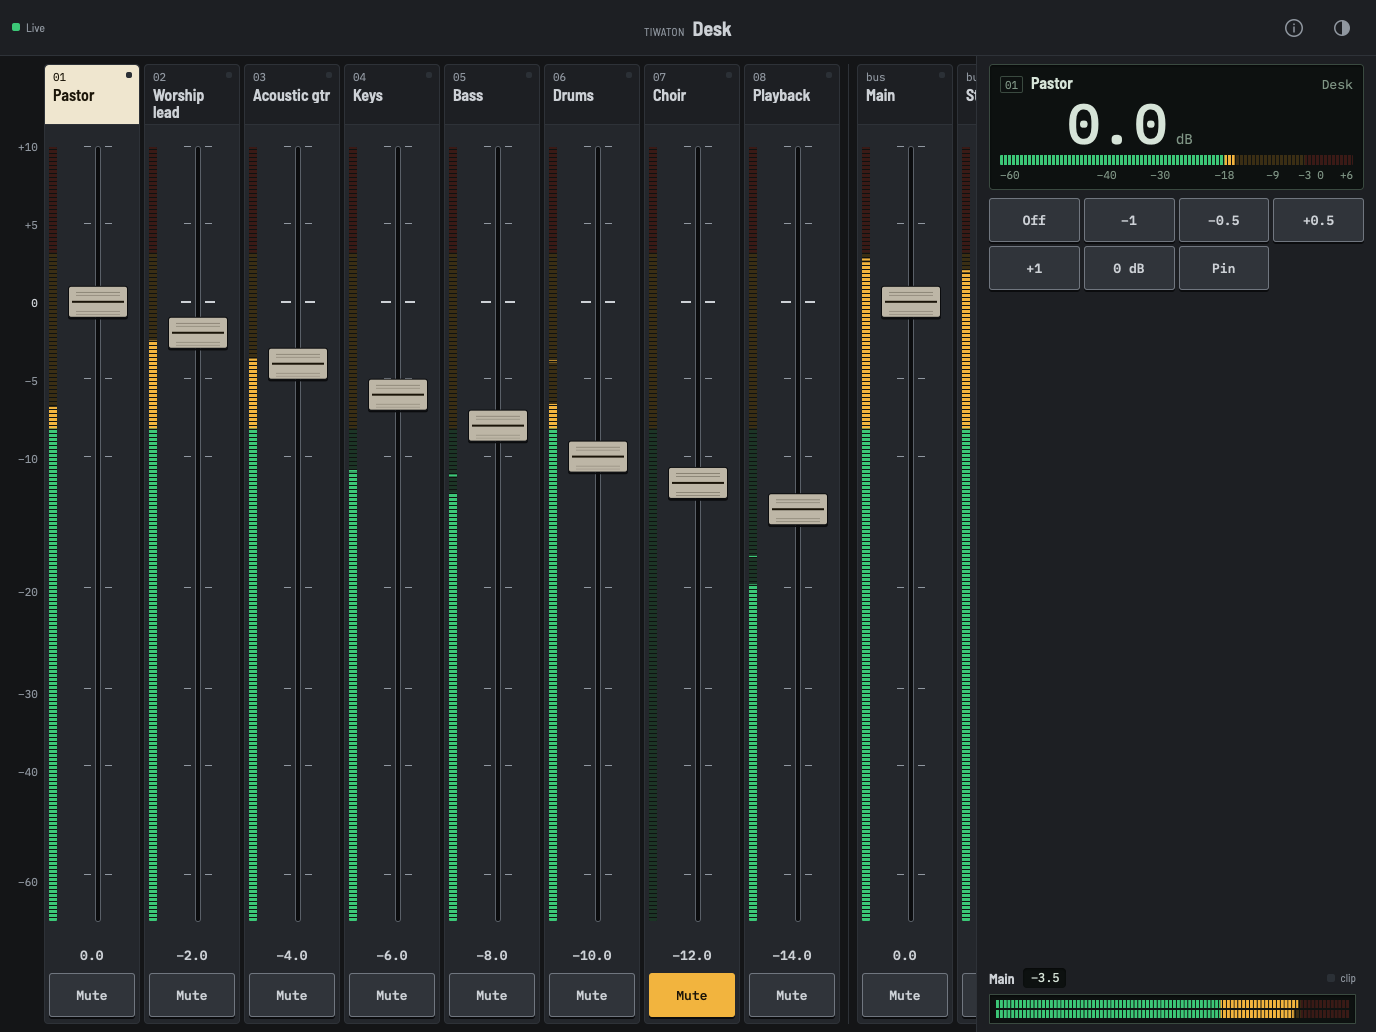
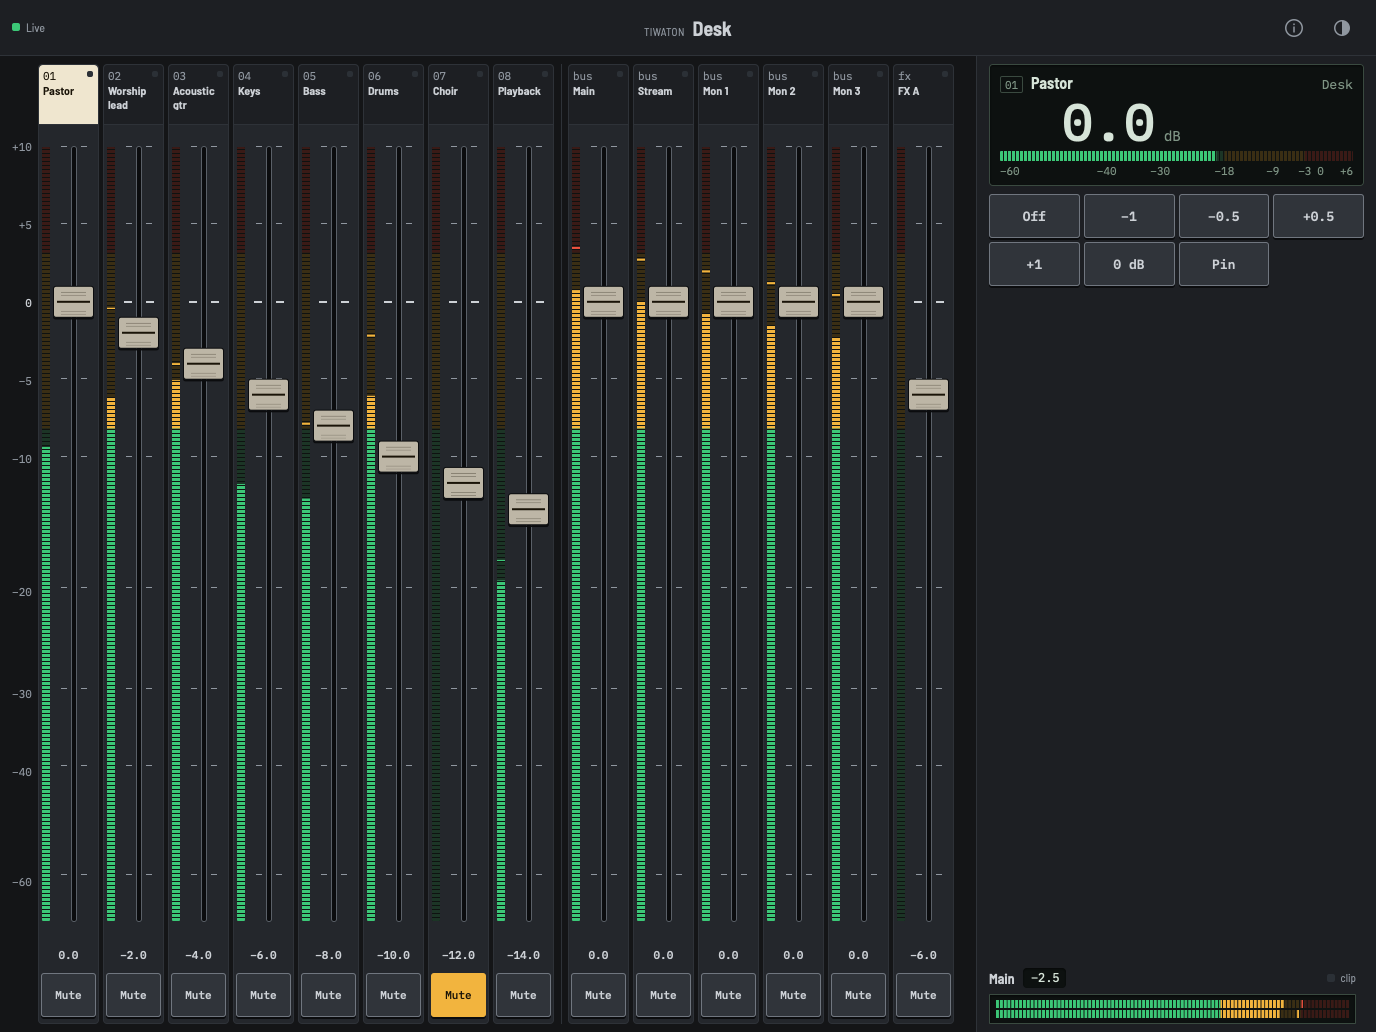
feat: fit every channel on screen on the phone and tablet
Strips now size to the screen: each takes the widest width that lets
all channels fit (8 on a phone in portrait, 14 desk faders on a
tablet), never under a 44 px touch target, scrolling only past that.
The meter sits inside the fader's touch area so the whole strip is
draggable; names hyphenate on narrow strips; the fine-adjust keys
start open in landscape. The preview server takes a host so a phone
on the tailnet can load it.

diff --git a/src-tauri/src/remote_mixer/web/desk.css b/src-tauri/src/remote_mixer/web/desk.css
@@ -9,13 +9,15 @@
 :root {
   --rm-touch: 44px;
   --rm-bar: 52px;
-  --rm-strip: 76px;
-  --rm-cap-w: 44px;
+  --rm-strip-max: 76px;
+  --rm-cap-max: 44px;
+  --rm-meter: 6px;
+  --rm-gap: 3px;
   --rm-cap-h: 28px;
   --rm-scrib: 56px;
-  --rm-scale: calc(28px + max(12px, env(safe-area-inset-left)));
+  --rm-scale: calc(26px + max(8px, env(safe-area-inset-left)));
   --rm-val: 24px;
-  --rm-digit: 44px;
+  --rm-digit: 38px;
   --rm-side: 340px;
   --rm-key-travel: 2px;
 }
@@ -99,17 +101,18 @@ button { font: inherit; color: inherit; }
 .mixer { flex: 1; min-height: 0; display: grid; grid-template-rows: minmax(0, 1fr) auto; }
 .bank {
   min-height: 0; display: flex; gap: 4px; overflow-x: auto; overflow-y: hidden;
-  padding: 8px max(12px, env(safe-area-inset-right)) 8px 0; scroll-padding-left: calc(var(--rm-scale) + 4px);
+  padding: 8px max(8px, env(safe-area-inset-right)) 8px 0; scroll-padding-left: calc(var(--rm-scale) + var(--rm-gap));
+  gap: var(--rm-gap);
   overscroll-behavior-x: contain; scrollbar-width: none;
 }
 .bank::-webkit-scrollbar { display: none; }
-.strips { display: flex; gap: 4px; flex: none; }
-.buses { padding-left: 8px; margin-left: 4px; border-left: 1px solid var(--fp-seam); }
+.strips { display: flex; gap: var(--rm-gap); flex: none; }
+.buses { padding-left: 6px; margin-left: 3px; border-left: 1px solid var(--fp-seam); }
 
 /* the printed scale, pinned to the left edge while the strips scroll */
 .scale {
   position: sticky; left: 0; z-index: 2; flex: none; width: var(--rm-scale);
-  padding-left: max(12px, env(safe-area-inset-left)); display: grid; grid-template-rows: var(--rm-scrib) minmax(0, 1fr) var(--rm-val);
+  padding-left: max(8px, env(safe-area-inset-left)); display: grid; grid-template-rows: var(--rm-scrib) minmax(0, 1fr) var(--rm-val);
   row-gap: 6px; background: var(--fp-chassis);
 }
 .desk .scale { grid-template-rows: var(--rm-scrib) minmax(0, 1fr) var(--rm-val) var(--rm-touch); }
@@ -123,47 +126,55 @@ button { font: inherit; color: inherit; }
 
 /* ---------- strip ---------- */
 .strip {
-  width: var(--rm-strip); flex: none; display: grid; row-gap: 6px;
+  width: var(--rm-strip, var(--rm-strip-max)); flex: none; display: grid; row-gap: 6px;
   grid-template-rows: var(--rm-scrib) minmax(0, 1fr) var(--rm-val);
-  padding: 0 4px 6px; background: var(--fp-raised); border: 1px solid var(--fp-seam); border-radius: var(--fp-radius-strip);
+  padding: 0 2px 6px; background: var(--fp-raised); border: 1px solid var(--fp-seam); border-radius: var(--fp-radius-strip);
 }
 .desk .strip { grid-template-rows: var(--rm-scrib) minmax(0, 1fr) var(--rm-val) var(--rm-touch); }
-.strip.pin-end { margin-right: 8px; }
+.strip.pin-end { margin-right: 6px; }
 .scrib {
-  position: relative; margin: 0 -4px; display: grid; align-content: start; row-gap: 4px; padding: 6px 8px;
+  position: relative; margin: 0 -2px; display: grid; align-content: start; row-gap: 4px; padding: 6px 8px;
   min-width: 0; text-align: left; border: 0; border-bottom: 1px solid var(--fp-seam);
   border-radius: var(--fp-radius-strip) var(--fp-radius-strip) 0 0; background: var(--fp-plate); cursor: pointer;
   transition: background-color var(--fp-motion-fast), color var(--fp-motion-fast);
 }
 .scrib .no { font: var(--fp-weight-regular) var(--fp-text-xs)/1 var(--fp-font-mono); color: var(--fp-muted); }
 .scrib .nm {
-  display: -webkit-box; -webkit-box-orient: vertical; -webkit-line-clamp: 2; overflow: hidden; overflow-wrap: anywhere;
+  display: -webkit-box; -webkit-box-orient: vertical; -webkit-line-clamp: 2; overflow: hidden;
+  overflow-wrap: break-word; -webkit-hyphens: auto; hyphens: auto;
   font: var(--fp-weight-semibold) var(--fp-text-lg)/1.05 var(--fp-font-legend);
 }
-.scrib .pinled { position: absolute; top: 7px; right: 7px; width: 6px; height: 6px; border-radius: var(--fp-radius-led); background: var(--fp-led-off); }
+.scrib .pinled { position: absolute; top: 6px; right: 5px; width: 6px; height: 6px; border-radius: var(--fp-radius-led); background: var(--fp-led-off); }
 .strip.pinned .pinled { background: var(--fp-lit-g); }
 .strip.selected .scrib { background: var(--fp-sel); color: var(--fp-sel-ink); }
 .strip.selected .scrib .no { color: var(--fp-sel-ink); }
-.fz { min-height: 0; display: grid; grid-template-columns: 8px minmax(0, 1fr); column-gap: 4px; }
-.ladder { width: 8px; height: calc(100% - var(--rm-cap-h)); margin-top: calc(var(--rm-cap-h) / 2); border-radius: var(--fp-radius-meter); background: var(--fp-meter-bg); }
-
-.track { position: relative; container-type: size; touch-action: pan-x; cursor: ns-resize; user-select: none; -webkit-user-select: none; border-radius: var(--fp-radius-key); }
+/* The fader takes the whole strip width (the touch target); the meter sits inside it, at the left. */
+.fz { position: relative; min-height: 0; --rm-shift: calc((var(--rm-meter) + 2px) / 2); }
+.ladder {
+  position: absolute; left: 1px; top: calc(var(--rm-cap-h) / 2); width: var(--rm-meter); height: calc(100% - var(--rm-cap-h));
+  border-radius: var(--fp-radius-meter); background: var(--fp-meter-bg); pointer-events: none;
+}
+.track {
+  position: absolute; inset: 0; container-type: size; touch-action: pan-x; cursor: ns-resize;
+  user-select: none; -webkit-user-select: none; border-radius: var(--fp-radius-key);
+}
 .slot {
-  position: absolute; left: 50%; top: calc(var(--rm-cap-h) / 2); bottom: calc(var(--rm-cap-h) / 2); width: 4px; margin-left: -2px;
+  position: absolute; left: calc(50% + var(--rm-shift)); top: calc(var(--rm-cap-h) / 2); bottom: calc(var(--rm-cap-h) / 2); width: 4px; margin-left: -2px;
   border-radius: var(--fp-radius-led); background: var(--fp-slot); box-shadow: 0 0 0 1px var(--fp-slot-edge);
 }
 .tick {
-  position: absolute; left: calc(50% - 14px); width: 28px; height: 1px;
+  position: absolute; left: calc(50% + var(--rm-shift) - 13px); width: 26px; height: 1px;
   bottom: calc(var(--p) * (100% - var(--rm-cap-h)) + var(--rm-cap-h) / 2);
 }
-.tick::before, .tick::after { content: ""; position: absolute; top: 0; width: 7px; height: 100%; background: var(--fp-muted); transition: background-color var(--fp-motion-fast); }
+.tick::before, .tick::after { content: ""; position: absolute; top: 0; width: 6px; height: 100%; background: var(--fp-muted); transition: background-color var(--fp-motion-fast); }
 .tick::before { left: 0; }
 .tick::after { right: 0; }
-.tick.unity { left: calc(50% - 17px); width: 34px; height: 2px; margin-bottom: -1px; }
-.tick.unity::before, .tick.unity::after { width: 10px; background: var(--fp-legend); }
+.tick.unity { left: calc(50% + var(--rm-shift) - 15px); width: 30px; height: 2px; margin-bottom: -1px; }
+.tick.unity::before, .tick.unity::after { width: 8px; background: var(--fp-legend); }
 .track.detent .tick.unity::before, .track.detent .tick.unity::after { background: var(--fp-lit-g); }
 .cap {
-  position: absolute; top: 0; left: 50%; width: var(--rm-cap-w); height: var(--rm-cap-h); margin-left: calc(var(--rm-cap-w) / -2);
+  position: absolute; top: 0; left: calc(50% + var(--rm-shift)); width: var(--rm-cap-w, var(--rm-cap-max)); height: var(--rm-cap-h);
+  margin-left: calc(var(--rm-cap-w, var(--rm-cap-max)) / -2);
   transform: translateY(calc((1 - var(--pos, 0)) * (100cqh - var(--rm-cap-h))));
   transition: transform var(--fp-motion-base), scale var(--fp-motion-fast);
   border-radius: var(--fp-radius-key); border: 1px solid var(--fp-cap-rim); background: var(--fp-ch-stone);
@@ -183,6 +194,12 @@ button { font: inherit; color: inherit; }
 }
 .strip.off .val { color: var(--fp-muted); }
 .strip .key.mute { width: 100%; min-width: 0; padding: 0; }
+
+/* Narrow strips, when every channel is fitted on screen. */
+.bank.tight .scrib { padding: 5px 4px; row-gap: 3px; }
+.bank.tight .scrib .nm { font-size: var(--fp-text-sm); line-height: 1.1; }
+.bank.tight .val { font-size: var(--fp-text-xs); }
+.bank.tight .strip .key.mute { font-size: var(--fp-text-xs); }
 .mixer.idle .track { cursor: not-allowed; opacity: 0.45; }
 
 /* ---------- console: LCD, fine adjust, master ---------- */
@@ -237,7 +254,7 @@ button { font: inherit; color: inherit; }
 
 /* ---------- landscape: strips left, console in the right thumb column ---------- */
 @media (orientation: landscape) {
-  :root { --rm-bar: 44px; --rm-scrib: 46px; --rm-digit: 40px; }
+  :root { --rm-bar: 44px; --rm-scrib: 46px; --rm-digit: 34px; --rm-side: 300px; }
   .mixer { grid-template-rows: minmax(0, 1fr); grid-template-columns: minmax(0, 1fr) var(--rm-side); }
   .console { display: flex; flex-direction: column; border-top: 0; border-left: 1px solid var(--fp-seam); overflow-y: auto; }
   .console .master { margin-top: auto; }
@@ -247,7 +264,7 @@ button { font: inherit; color: inherit; }
 
 /* ---------- tablets: wider strips and caps ---------- */
 @media (min-width: 700px) and (min-height: 700px) {
-  :root { --rm-strip: 96px; --rm-cap-w: 60px; --rm-cap-h: 32px; --rm-side: 400px; --rm-digit: 56px; --rm-bar: 56px; --rm-scrib: 60px; }
+  :root { --rm-strip-max: 112px; --rm-cap-max: 60px; --rm-meter: 8px; --rm-gap: 4px; --rm-cap-h: 32px; --rm-side: 400px; --rm-digit: 52px; --rm-bar: 56px; --rm-scrib: 60px; }
   .scrib .nm { font-size: var(--fp-text-xl); -webkit-line-clamp: 2; }
 }
 @media (min-width: 700px) and (min-height: 700px) and (orientation: portrait) {

diff --git a/src-tauri/src/remote_mixer/web/board.js b/src-tauri/src/remote_mixer/web/board.js
@@ -2,12 +2,15 @@
 // meter wiring. desk.js owns the connection and the write queue and calls in here.
 import { attachFader, buildScale, buildTrack, showLevel } from './fader.js';
 import { createMeters } from './meters.js';
-import { clipUntil, CLIP_DB, DB_OFF, inMixDb, lcdReadout, nudge, orderStrips, peakLabel } from './mixmath.js';
+import { clipUntil, CLIP_DB, DB_OFF, fitStrip, inMixDb, lcdReadout, nudge, orderStrips, peakLabel } from './mixmath.js';
 import { dbLabel } from './protocol.js';
 
 const MIX_NAMES = { desk: 'Desk', monitor1: 'Mon 1', monitor2: 'Mon 2', monitor3: 'Mon 3' };
 const KINDS = { bus: 'bus', return: 'fx', dca: 'dca' };
 const STALE_METERS_MS = 600;
+const MIN_STRIP_PX = 44;
+const TIGHT_STRIP_PX = 64;
+const CAP_MARGIN_PX = 12;
 const el = (id) => document.getElementById(id);
 
 export function targetKey(target) {
@@ -58,7 +61,8 @@ export function createBoard({ onLevel, onMute, busy }) {
   const fine = el('fine');
   const mute = el('mute-mix');
   buildScale(el('scale'));
-  if (window.matchMedia('(min-width: 700px) and (min-height: 700px)').matches) {
+  // Where there is room beside or below the strips (tablets, landscape), the fine keys start open.
+  if (window.matchMedia('(min-width: 700px) and (min-height: 700px), (orientation: landscape)').matches) {
     fine.hidden = false;
     readout.setAttribute('aria-expanded', 'true');
   }
@@ -222,6 +226,25 @@ export function createBoard({ onLevel, onMute, busy }) {
     mute.setAttribute('aria-label', `Mute ${MIX_NAMES[view.role]} mix`);
   }
 
+  /** Size the strips so every channel fits on screen, down to a thumb-sized minimum. */
+  function fit() {
+    const bank = el('bank');
+    if (!bank.clientWidth || !strips.size) return;
+    const root = getComputedStyle(document.documentElement);
+    const token = (name) => parseFloat(root.getPropertyValue(name)) || 0;
+    const gap = token('--rm-gap');
+    const box = getComputedStyle(bank);
+    const divider = buses.hidden ? 0 : gap + parseFloat(getComputedStyle(buses).paddingLeft)
+      + parseFloat(getComputedStyle(buses).marginLeft) + 1;
+    const pinGap = channels.querySelector('.pin-end') ? parseFloat(getComputedStyle(channels.querySelector('.pin-end')).marginRight) : 0;
+    const available = bank.clientWidth - el('scale').parentElement.offsetWidth - parseFloat(box.paddingRight) - gap - divider - pinGap;
+    const width = fitStrip({ available, count: strips.size, gap, min: MIN_STRIP_PX, max: token('--rm-strip-max') });
+    bank.style.setProperty('--rm-strip', `${width}px`);
+    bank.style.setProperty('--rm-cap-w', `${Math.min(token('--rm-cap-max'), width - token('--rm-meter') - CAP_MARGIN_PX)}px`);
+    bank.classList.toggle('tight', width < TIGHT_STRIP_PX);
+  }
+  new ResizeObserver(() => fit()).observe(el('bank'));
+
   function firstKey() {
     const first = channels.firstElementChild ?? buses.firstElementChild;
     return [...strips.values()].find((strip) => strip.el === first)?.key;
@@ -262,6 +285,7 @@ export function createBoard({ onLevel, onMute, busy }) {
       if (pins.has(name)) pins.delete(name); else pins.add(name);
       savePins(view.role, pins);
       arrange();
+      fit();
       paintLcd();
       strip.el.scrollIntoView({ block: 'nearest', inline: 'nearest', behavior: 'smooth' });
       return;
@@ -291,6 +315,7 @@ export function createBoard({ onLevel, onMute, busy }) {
       }
       buses.hidden = buses.childElementCount === 0;
       arrange();
+      fit();
       if (!selected || !strips.has(selected)) select(firstKey());
       paintMaster();
       paintLcd();

diff --git a/src/lib/remoteMixerMath.test.js b/src/lib/remoteMixerMath.test.js
@@ -1,7 +1,7 @@
 import assert from 'node:assert/strict';
 import test from 'node:test';
 import {
-  DB_OFF, clipUntil, faderDb, faderPosition, inMixDb, lcdReadout, nudge, orderStrips, peakLabel,
+  DB_OFF, clipUntil, fitStrip, faderDb, faderPosition, inMixDb, lcdReadout, nudge, orderStrips, peakLabel,
   initialMeter, stepMeter, withDetent,
 } from '../../src-tauri/src/remote_mixer/web/mixmath.js';
 
@@ -86,4 +86,12 @@ test('the readout keeps a fixed width so digits never shift', () => {
   assert.equal(peakLabel(-75), '−∞');
   assert.equal(peakLabel(-6.24), '−6.2');
   assert.equal(peakLabel(1.5), '+1.5');
+});
+
+test('strips shrink to fit every channel on screen, but never below a thumb target', () => {
+  // iPhone portrait: 8 channels in 400 px with 3 px gaps fit at 47 px each.
+  assert.equal(fitStrip({ available: 400, count: 8, gap: 3, min: 44, max: 76 }), 47);
+  assert.equal(fitStrip({ available: 1200, count: 8, gap: 3, min: 44, max: 76 }), 76, 'capped at full size');
+  assert.equal(fitStrip({ available: 400, count: 16, gap: 3, min: 44, max: 76 }), 44, 'too many: scroll at the minimum');
+  assert.equal(fitStrip({ available: 400, count: 0, gap: 3, min: 44, max: 76 }), 76);
 });

diff --git a/src-tauri/src/remote_mixer/web/mixmath.js b/src-tauri/src/remote_mixer/web/mixmath.js
@@ -130,3 +130,10 @@ export function lcdReadout(db) {
 export function peakLabel(db) {
   return db <= METER_MIN_DB ? `${MINUS}∞` : signed(db);
 }
+
+/** The widest strip that fits `count` strips in `available` px, kept within [min, max]. */
+export function fitStrip({ available, count, gap, min, max }) {
+  if (!(count > 0)) return max;
+  const each = Math.floor((available - gap * (count - 1)) / count);
+  return Math.max(min, Math.min(max, each));
+}

diff --git a/docs/specs/2026-11-20-remote-mixer.md b/docs/specs/2026-11-20-remote-mixer.md
@@ -33,7 +33,7 @@ The rail's remote key opens a popover that follows the flow: start listening, th
 
 The page is a personal monitor mixer in the faceplate language (graphite and bone, `--fp-*` tokens, glass windows dark in both finishes). Screenshots: `docs/screenshots/2026-11-21-phone-mix/`.
 
-- **Strips.** One vertical fader per channel: 44 px cap (60 px on tablets), console taper with 0 dB three quarters up, a magnetic 0 dB detent and off at the bottom. Drags are relative, so a touch never makes the cap jump; sideways swipes scroll the bank. Double-tap returns a live fader to 0 dB; it never opens a send that is off. Arrow keys step 0.5 dB, Page keys 3 dB, Home off, End +10. The desk role adds a mute key per strip and shows buses, FX returns and DCAs after a divider.
+- **Strips.** One vertical fader per channel, sized so every channel fits on screen (8 channels on a phone in portrait); a strip never gets narrower than 44 px, and past that the bank scrolls. The whole strip width is the fader's touch target, with a cap up to 44 px (60 px on tablets), console taper with 0 dB three quarters up, a magnetic 0 dB detent and off at the bottom. Drags are relative, so a touch never makes the cap jump; sideways swipes scroll the bank. Double-tap returns a live fader to 0 dB; it never opens a send that is off. Arrow keys step 0.5 dB, Page keys 3 dB, Home off, End +10. The desk role adds a mute key per strip and shows buses, FX returns and DCAs after a divider.
 - **Meters.** A segmented ladder beside each fader, the desktop ladder's zones (green to −18, amber to −3, red) and ballistics, with a one-second peak hold. On a monitor role the lit bar is what the channel puts into this mix (its send tap plus the send level) and a faint bar shows signal at the tap the mix is not using. The mix meter shows RMS as the bar and peak as a dot with a hold tick, a held peak readout and a clip lamp latched for two seconds. All meters run on one animation-frame loop that idles when readings stop. A one-shot lamp-test sweep plays when a mixer loads. Reduced motion draws readings as they arrive, without smoothing or the sweep.
 - **Readout.** A glass LCD near the thumbs shows the selected channel's number, name and level in a fixed-width readout, the mix name and its muted state, and a meter. Tapping it opens fine adjust: off, −1, −0.5, +0.5, +1, 0 dB and pin. Pinned channels (stored per role on the device) lead the bank.
 - **Layout.** The link lamp (live, engine off, offline) and the mix name stay in the top bar. Portrait puts the readout and the mix master with its mute at the bottom; landscape puts them in a right-hand column. Tablets get wider strips, and the fine-adjust keys open by default.
